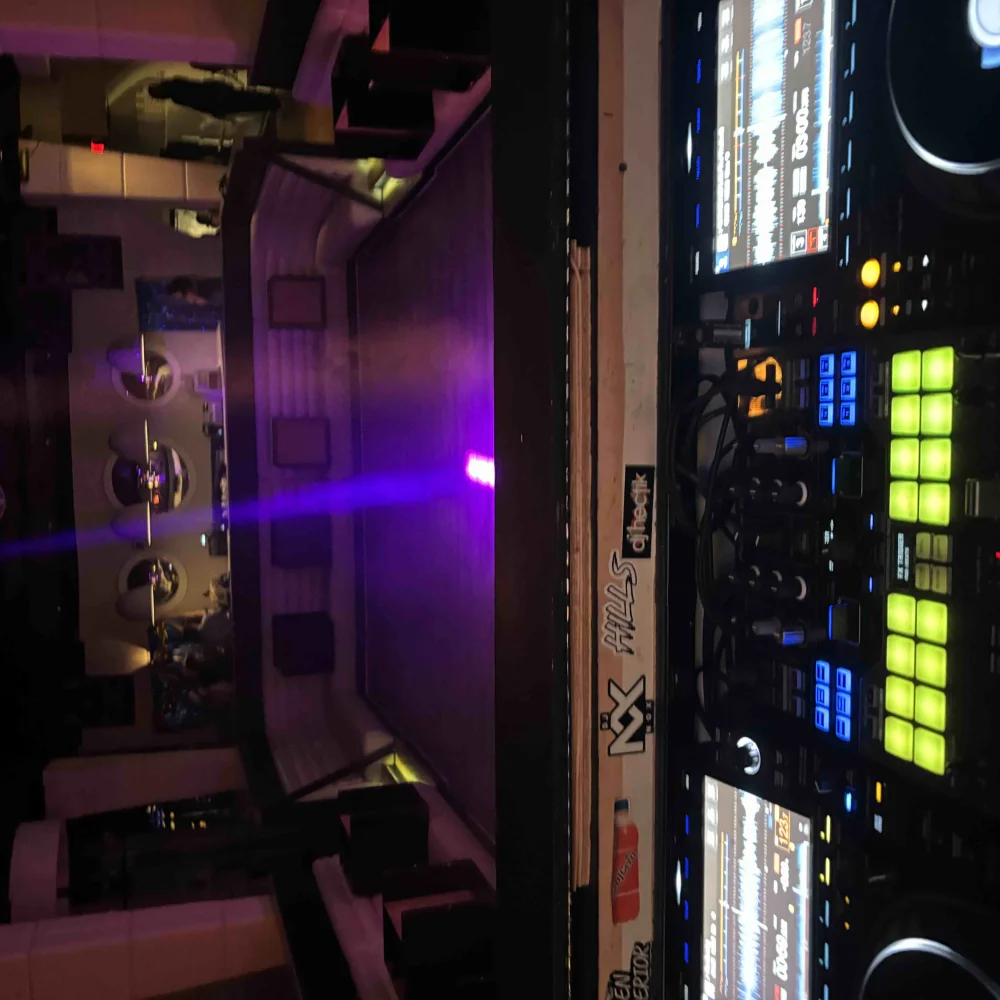
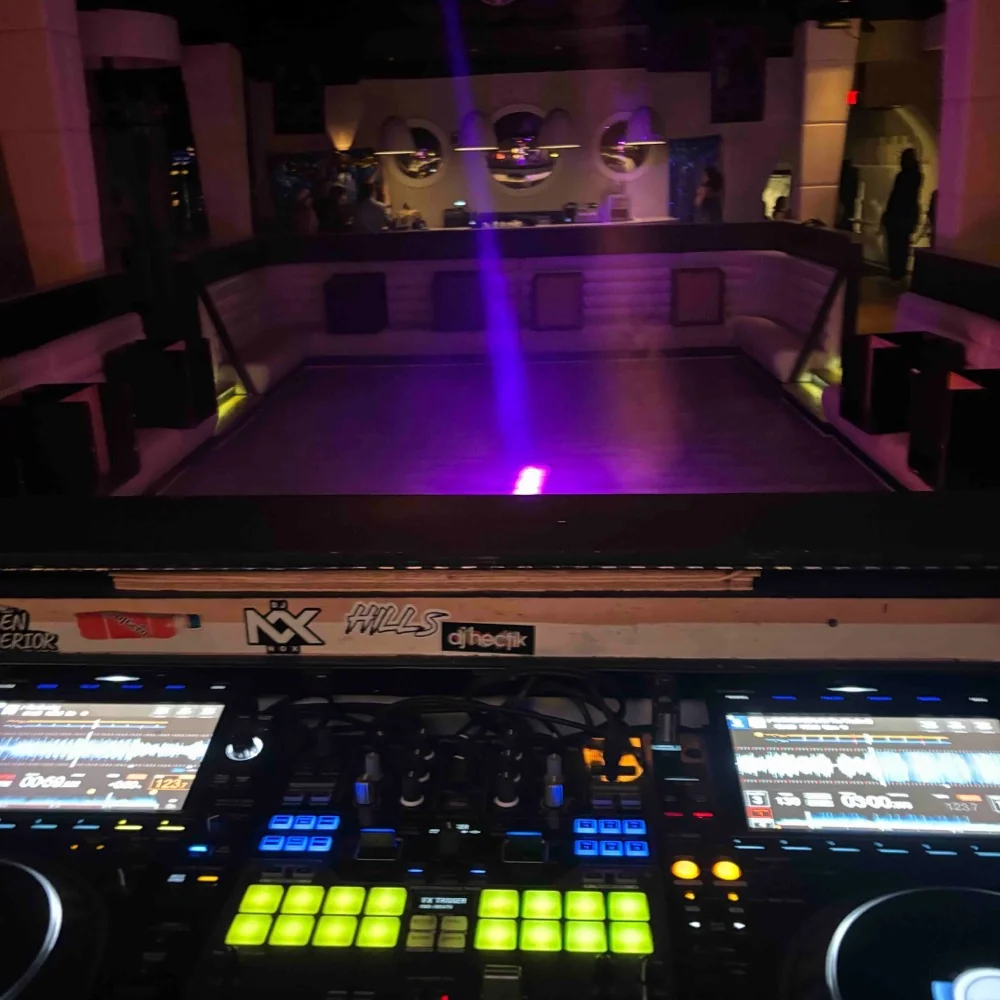
Add the Deep Tech House Mix and turn the 2x covers right way up
The Trap Mix and Party Set twins were built from SoundCloud's -original
artwork, which is the camera frame with the EXIF orientation stripped, so
both sat a quarter turn off — visible only on a 2x screen, where srcset
picks the twin. Rebuilt them rotated to match the -t500x500 render, and
wrote the trap down beside the twin instructions.

Claude-Session: https://claude.ai/code/session_01XpVKzzbXgLKS8bboR45Fkg

diff --git a/index.html b/index.html
@@ -173,6 +173,11 @@
                 <h2>Sets</h2>
             </div>
             <div class="set-grid">
+                <a class="tile" href="https://soundcloud.com/rquinn1/diffusion-deep-tech-house-mix" target="_blank" rel="noopener">
+                    <img class="tile-art" src="images/sets/deep-tech-house-mix.webp" srcset="images/sets/deep-tech-house-mix.webp 500w, images/sets/deep-tech-house-mix-1000.webp 1000w" sizes="(max-width: 900px) 46vw, (max-width: 1200px) 31vw, 340px" alt="Artwork for Deep Tech House Mix" width="500" height="500">
+                    <span class="tile-cap">Deep Tech House Mix</span>
+                    <span class="tile-meta">Sep 2026 · 60:13</span>
+                </a>
                 <a class="tile" href="https://soundcloud.com/rquinn1/diffusion-rinzler-minimal" target="_blank" rel="noopener">
                     <img class="tile-art" src="images/sets/minimal-house-b2b-rinzler.webp" srcset="images/sets/minimal-house-b2b-rinzler.webp 500w, images/sets/minimal-house-b2b-rinzler-1000.webp 1000w" sizes="(max-width: 900px) 46vw, (max-width: 1200px) 31vw, 340px" alt="Artwork for Minimal House &amp; Indie Dance, B2B with Rinzler" width="500" height="500">
                     <span class="tile-cap">Minimal House &amp; Indie Dance (B2B Rinzler)</span>
@@ -182,7 +187,7 @@
                      artwork at 1000px or more; the 500px file alone is fine when it
                      does not (Late Night Mix, R&B Mix). -->
                 <a class="tile" href="https://soundcloud.com/rquinn1/rq-late-night-mix-hip-hip-r-b" target="_blank" rel="noopener">
-                    <img class="tile-art" src="images/sets/late-night-mix.webp" alt="Artwork for Late Night Mix" width="500" height="500">
+                    <img class="tile-art" src="images/sets/late-night-mix.webp" alt="Artwork for Late Night Mix" width="500" height="500" loading="lazy">
                     <span class="tile-cap">Late Night Mix — Hip Hop, R&amp;B, Pop</span>
                     <span class="tile-meta">Apr 2026 · 40:35</span>
                 </a>

diff --git a/.claude/CLAUDE.md b/.claude/CLAUDE.md
@@ -94,10 +94,13 @@ Set covers are `<name>.webp` at 500px, and where SoundCloud holds the artwork
 at 1000px or more a `<name>-1000.webp` twin joined by `srcset`, so 2x desktop
 screens get the sharp one and phones the small one. The twins are
 centre-square crops of the SoundCloud originals: fetch the track page, take
-its `-t500x500` artwork URL, swap in `-original`. Late Night Mix and R&B Mix
-exist only at 500px there, and the Tech House page did not expose its artwork
-on 2026-09-07. Never upscale a cover to fake the twin. Rail and show photos
-are WebP too.
+its `-t500x500` artwork URL, swap in `-original`. That original is the camera's
+own frame with the EXIF orientation stripped, so a phone photo arrives lying on
+its side; the Trap Mix and Party Set twins shipped rotated a quarter turn on
+2026-09-07 and were only visible that way on a 2x screen. Rotate to match the
+`-t500x500` render before cropping, and look at the finished twin. Late Night
+Mix and R&B Mix exist only at 500px there. Never upscale a cover to fake the
+twin. Rail and show photos are WebP too.
 
 ## Hosting
 
